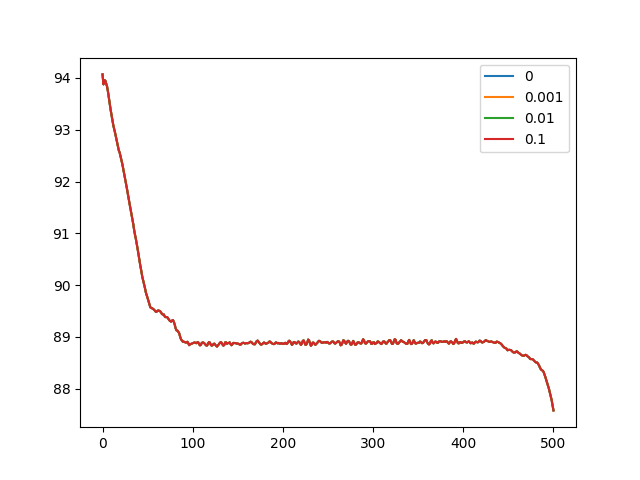
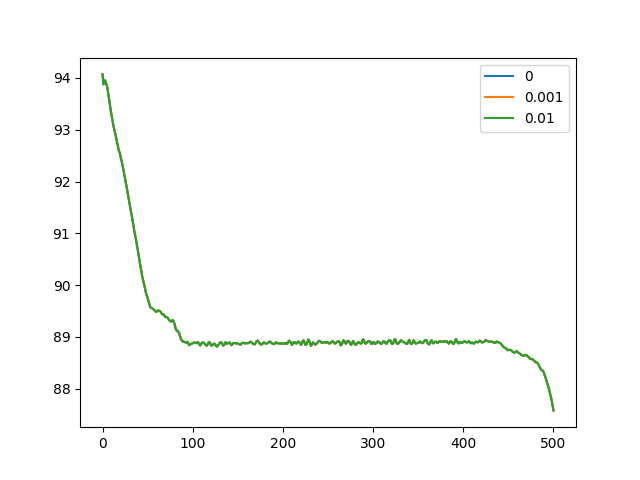
plot update

diff --git a/python/post/max_z.py b/python/post/max_z.py
@@ -30,7 +30,7 @@ def max_z_finder(asperities, uc, temp, time, initnum):
     
 def plot_max_z(asperities, uc, temp, time, initnum):
 
-    for force in [0, 0.001, 0.01, 0.1]:
+    for force in [0, 0.001, 0.01]:#, 0.1]:
         heights = []
         files = highz_dir + f"maxz_temp{temp}_force{force}_asp{asperities}_time{time}_initnum{initnum}_seed*.txt"
         for _file in glob(files):
